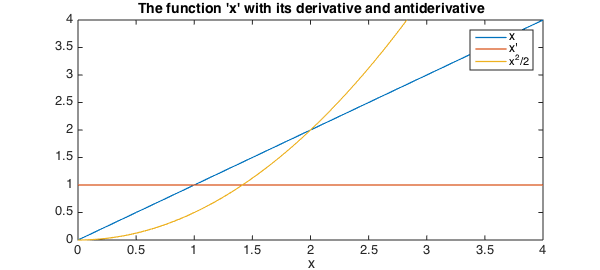
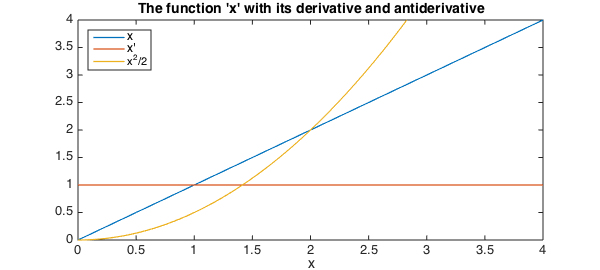
Updated FracCalc

Changed region(s): [[0.12, 0.0889, 0.27, 0.2667], [0.78, 0.0889, 0.9, 0.2667]]

diff --git a/examples/temp/FracCalc.html b/examples/temp/FracCalc.html
@@ -1,0 +1,175 @@
+<!DOCTYPE html>
+<html>
+  <head>
+    <title>Fractional calculus in Chebfun &raquo; Chebfun</title>
+    <meta name="viewport" content="width=device-width, initial-scale=1.0">
+    <meta charset="utf-8">
+    <link rel="shortcut icon" href="favicon.ico" />
+
+    <!-- Bootstrap -->
+    <link href="/css/bootstrap.min.css" rel="stylesheet"><!--  media="screen" -->
+    <link href="/css/normalize.min.css" rel="stylesheet"><!--  media="screen" -->
+    <link href="/css/chebsite.css" rel="stylesheet"><!--  media="screen" -->
+    <link href="/css/tomorrow.css" rel="stylesheet"><!--  media="screen" -->
+    <link href="/css/flexslider.css" rel="stylesheet"><!--  media="screen" -->
+
+    <link href='http://fonts.googleapis.com/css?family=Ubuntu+Mono:400,700,400italic' rel='stylesheet' type='text/css'>
+    <!-- HTML5 Shim and Respond.js IE8 support of HTML5 elements and media queries -->
+    <!-- WARNING: Respond.js doesn't work if you view the page via file:// -->
+    <!--[if lt IE 9]>
+      <script src="https://oss.maxcdn.com/libs/html5shiv/3.7.0/html5shiv.js"></script>
+      <script src="https://oss.maxcdn.com/libs/respond.js/1.3.0/respond.min.js"></script>
+    <![endif]-->
+<script>
+  (function(i,s,o,g,r,a,m){i['GoogleAnalyticsObject']=r;i[r]=i[r]||function(){
+  (i[r].q=i[r].q||[]).push(arguments)},i[r].l=1*new Date();a=s.createElement(o),
+  m=s.getElementsByTagName(o)[0];a.async=1;a.src=g;m.parentNode.insertBefore(a,m)
+  })(window,document,'script','//www.google-analytics.com/analytics.js','ga');
+  ga('create', 'UA-4297200-10', 'chebfun.org');
+  ga('require', 'displayfeatures');
+  ga('send', 'pageview');
+</script>  </head>
+  <body>
+    <!-- Fixed navbar -->
+    <div id='navbar' class="navbar navbar-default navbar-fixed-top">
+      <div class="container nav">
+        <div class="navbar-header">
+          <button type="button" class="navbar-toggle" data-toggle="collapse" data-target=".navbar-collapse"><span class="icon-bar"></span><span class="icon-bar"></span><span class="icon-bar"></span></button>
+          <a id="logo" href="/"><img src='/images/logo.png' /></a>
+        </div>
+        <div class="navbar-collapse collapse">
+          <ul class="nav navbar-nav navbar-right">
+            <li><a href="/about">About</a></li>
+            <li><a href="/news">News</a></li>
+            <li><a href="/download">Download</a></li>
+            <li><a href="/docs">Docs</a></li>
+            <li><a href="/examples">Examples</a></li>
+            <li><a href="/support">Support</a></li>
+            <li><a href="/search"><span class="glyphicon glyphicon-search"></span></a></li>
+            <li><a href="http://github.com/chebfun/chebfun"><img id='github-logo' src='/css/github-logo.png'/></a></li>
+          </ul>
+        </div><!--/.nav-collapse -->
+      </div>
+    </div>
+<div class="page-wrapper">
+
+    <div class='page-header'>
+<h1>Fractional calculus in Chebfun</h1>
+<h2>Nick Hale, October 2010<span><a href='/examples/temp/FracCalc.m'>download</a><span class='sep-sm'>&middot;</span><a href='//github.com/chebfun/examples/tree/development/temp/FracCalc.m'>view on GitHub</a></span></h2>
+</div>
+
+    <div class="container">
+<div class="row main">
+<div id='content' class="col-sm-12 example" role="main">
+<p>We're all familiar with the standard definitions of differentiation and integration we learnt in high-school and at undergraduate level. For example, here is the function $x$ on the interval [0,4] along with its derivative (the constant function, $1$) and antiderivative ($x^2$).</p>
+<pre class="mcode-input">x = chebfun('x', [0, 4]);
+LW = 'LineWidth'; lw = 1.2; FS = 'FontSize'; fs = 14;
+plot(x, '-', diff(x), '-', cumsum(x), '-', LW, lw)
+legend('x', 'x''', 'x^2/2','location','northwest')
+axis([0 4 0 4]), xlabel('x', FS, fs)
+title('The function ''x'' with its derivative and antiderivative', FS, fs)</pre>
+
+<p><img src="img/FracCalc_01.png" class="figure" alt=""></p>
+<h3 id="half-derivative">Half-derivative</h3>
+<p>A natural question one might ask is whether there exists, say, a 'half-derivative' operator ${\cal H}$, such that ${\cal H}^2(f) = df(x)/dx$.</p>
+<p>It turns out that through a generalisation of the Cauchy formula for repeated integration we can define precisely such an operator as a "Riemann-Liouville derivative" [1].</p>
+<p>We omit here any rigorous definition of these operators, but instead demonstrate their behaviour when applied to some simple functions $f$, as well as Chebfun's ability to compute them.</p>
+<p>Continuing where we left off above, we might ask what is the half-derivative of the function $f(x) = x$. In Chebfun this is easily computed via</p>
+<pre class="mcode-input">xp05 = diff(x, 0.5);
+hold on, plot(xp05, '-', LW, lw), axis([0, 4, 0, 4])
+legend('x', 'x''', 'x^2/2', 'd^{1/2}x / dx^{1/2}','location','northwest')
+xlabel('x',FS,fs); title('The function ''x'' and its half-derivative',FS,fs)</pre>
+
+<p><img src="img/FracCalc_02.png" class="figure" alt=""></p>
+<p>Notice here that the second argument passed to diff, which for standard calculus is a positive integer specifying the number of times to differentiate the chebfun, indicates that we wish to compute the half-derivative of x.</p>
+<p>The plot of this half-derivative may look familiar, and in fact one can show that the half derivative of $x$ is precisely $2\sqrt{x/\pi}$, which we can verify:</p>
+<pre class="mcode-input">f = chebfun(@(x) 2*sqrt(x/pi), [0, 4], 'exps', [0.5, 0]);
+norm(f - xp05, inf)</pre>
+
+<pre class="mcode-output">ans =
+     4.440892098500626e-16
+</pre>
+
+<h3 id="fractional-differentiation">Fractional differentiation</h3>
+<p>The Riemann-Liouville derivative definition above applies not only to half-powers, but to $d^a/dx^a$ for any $a &gt; 0$.</p>
+<p>Below we demonstrate the ($a$)th derivative of $x$ for $a$ = 1/10, 2/10, ..., 1.</p>
+<pre class="mcode-input">close
+u = x;
+for alpha = 0.1:.1:1
+    u = [ u, diff(u(:,1), alpha) ];
+    plot(u, LW, lw), drawnow
+end
+title('Fractional derivatives of x', FS, fs)
+xlabel('x', FS, fs); ylabel('d^a x / d x ^a', FS, fs)
+legend(num2str((0:.1:1)'),'location','northwest')</pre>
+
+<p><img src="img/FracCalc_03.png" class="figure" alt=""></p>
+<p>Of course, these generalised derivatives can be applied to more complicated functions than simply the independent variable '$x$'. Here we demonstrate the behaviour of varying irrational derivatives of the trigonometric function $\sin(x)$.</p>
+<pre class="mcode-input">close
+u = chebfun('sin(x)', [0, 20]);
+for alpha = sqrt(2)*(0:2:10)/17
+    u = [ u, diff(u(:,1), alpha) ];
+    plot(u, LW, lw), ylim(1.2*[-1, 1]), drawnow,
+end
+title('Fractional derivatives of sin(x)', FS, fs)
+xlabel('x', FS, fs); ylabel('d^a sin(x) / d x ^a', FS, fs)
+legend(num2str(sqrt(2)*(0:2:10)'/17))</pre>
+
+<p><img src="img/FracCalc_04.png" class="figure" alt=""></p>
+<p>Far away from the left-hand boundary these derivatives are essentially shifts of $x \rightarrow x + a\pi/2$ (which is consistent with the case of $a$ being an integer), but near $x = 0$ the boundary effects are more interesting.</p>
+<pre class="mcode-input">axis([-0.5, pi, 0.0, 1.01])</pre>
+
+<p><img src="img/FracCalc_05.png" class="figure" alt=""></p>
+<h3 id="fractional-integration">Fractional integration</h3>
+<p>The definition of the Riemann-Liouville derivative can also to extended fractional integration (in fact it is sometimes referred to as the Riemann-Liouville 'differintegral' [2]). Chebfun can also handle these types of operators, here extending the definition of <code>cumsum</code> to allow non-integer degree.</p>
+<pre class="mcode-input">close
+x = chebfun('x', [0, 1]); u = [];
+for k = 1:10;
+    u = [ u, cumsum(x.^k, 0.5) ];
+    plot(u, LW, lw), drawnow, hold on
+end
+title('Half-integrals of x^k for k = 1, ..., 10', FS, fs)
+xlabel('x', FS, fs);
+legend(num2str((1:10)'),'location','northwest')</pre>
+
+<p><img src="img/FracCalc_06.png" class="figure" alt=""></p>
+<p>Here's another example:</p>
+<pre class="mcode-input">close
+u = chebfun('exp(x)-1', [0, 1]);
+for alpha = 0.1:.1:1
+    u = [ u, cumsum(u(:,1), alpha) ];
+    plot(u, LW, lw), drawnow
+end
+title('Fractional integrals of exp(x)-1', FS, fs)
+xlabel('x', FS, fs);
+legend(num2str((0:.1:1)'),'location','northwest')</pre>
+
+<p><img src="img/FracCalc_07.png" class="figure" alt=""></p>
+<h3 id="fractional-differential-equations">Fractional differential equations</h3>
+<p>Unfortunately there is not yet any functionality for fractional calculus operators in the Chebop system.</p>
+<h3 id="references">References</h3>
+<ol>
+<li>
+<p>Lizorkin, P.I. (2001), "Fractional integration and differentiation",    <a href="http://eom.springer.de/f/f041230.htm">http://eom.springer.de/f/f041230.htm</a></p>
+</li>
+<li>
+<p><a href="http://en.wikipedia.org/wiki/Riemann-Liouville_differintegral">http://en.wikipedia.org/wiki/Riemann-Liouville_differintegral</a></p>
+</li>
+</ol></div>
+        </div>
+    </div>
+</div>
+    <div class="footer">
+        <p>&copy; Copyright 2014 the University of Oxford and the Chebfun Developers.</p>
+    </div>
+
+    <!-- jQuery (necessary for Bootstrap's JavaScript plugins) -->
+    <script type="text/javascript" src="http://code.jquery.com/jquery-1.7.2.min.js"></script>
+    <!-- Include all compiled plugins (below), or include individual files as needed -->
+    <script type="text/javascript" src="http://cdn.mathjax.org/mathjax/latest/MathJax.js?config=TeX-AMS-MML_HTMLorMML"></script>
+    <script src="/js/bootstrap.min.js"></script>
+    <script src="https://google-code-prettify.googlecode.com/svn/loader/prettify.js?lang=matlab" type="text/javascript"></script>
+    <script type="text/javascript" src="/js/config.js"></script>
+    <script type="text/javascript" src="/js/jquery.flexslider-min.js"></script>
+  </body>
+</html>

diff --git a/examples/temp/img/FracCalc.html b/examples/temp/img/FracCalc.html
@@ -1,0 +1,116 @@
+---
+title: "Fractional calculus in Chebfun"
+layout: example
+authordate: "Nick Hale, October 2010"
+meta: "(Chebfun example integro/FracCalc.m) [Tags: #calculus, #fractionalderivative]"
+---
+
+We're all familiar with the standard definitions of differentiation and integration we learnt in high-school and at undergraduate level. For example, here is the function $x$ on the interval [0,4] along with its derivative (the constant function, $1$) and antiderivative ($x^2$).
+
+<pre class="mcode-input">x = chebfun('x', [0, 4]);
+LW = 'LineWidth'; lw = 1.2; FS = 'FontSize'; fs = 14;
+plot(x, '-', diff(x), '-', cumsum(x), '-', LW, lw)
+legend('x', 'x''', 'x^2/2','location','northwest')
+axis([0 4 0 4]), xlabel('x', FS, fs)
+title('The function ''x'' with its derivative and antiderivative', FS, fs)</pre><img src="img/FracCalc_01.png" class="figure" alt="">
+
+
+
+## Half-derivative
+
+A natural question one might ask is whether there exists, say, a 'half-derivative' operator ${\cal H}$, such that ${\cal H}^2(f) = df(x)/dx$.
+
+It turns out that through a generalisation of the Cauchy formula for repeated integration we can define precisely such an operator as a "Riemann-Liouville derivative" [1].
+
+We omit here any rigorous definition of these operators, but instead demonstrate their behaviour when applied to some simple functions $f$, as well as Chebfun's ability to compute them.
+
+Continuing where we left off above, we might ask what is the half-derivative of the function $f(x) = x$. In Chebfun this is easily computed via
+
+<pre class="mcode-input">xp05 = diff(x, 0.5);
+hold on, plot(xp05, '-', LW, lw), axis([0, 4, 0, 4])
+legend('x', 'x''', 'x^2/2', 'd^{1/2}x / dx^{1/2}','location','northwest')
+xlabel('x',FS,fs); title('The function ''x'' and its half-derivative',FS,fs)</pre><img src="img/FracCalc_02.png" class="figure" alt="">
+
+Notice here that the second argument passed to diff, which for standard calculus is a positive integer specifying the number of times to differentiate the chebfun, indicates that we wish to compute the half-derivative of x.
+
+The plot of this half-derivative may look familiar, and in fact one can show that the half derivative of $x$ is precisely $2\sqrt{x/\pi}$, which we can verify:
+
+<pre class="mcode-input">f = chebfun(@(x) 2*sqrt(x/pi), [0, 4], 'exps', [0.5, 0]);
+norm(f - xp05, inf)</pre><pre class="mcode-output">ans =
+     4.440892098500626e-16
+</pre>
+
+## Fractional differentiation
+
+The Riemann-Liouville derivative definition above applies not only to half-powers, but to $d^a/dx^a$ for any $a &gt; 0$.
+
+Below we demonstrate the ($a$)th derivative of $x$ for $a$ = 1/10, 2/10, ..., 1.
+
+<pre class="mcode-input">close
+u = x;
+for alpha = 0.1:.1:1
+    u = [ u, diff(u(:,1), alpha) ];
+    plot(u, LW, lw), drawnow
+end
+title('Fractional derivatives of x', FS, fs)
+xlabel('x', FS, fs); ylabel('d^a x / d x ^a', FS, fs)
+legend(num2str((0:.1:1)'),'location','northwest')</pre><img src="img/FracCalc_03.png" class="figure" alt="">
+
+Of course, these generalised derivatives can be applied to more complicated functions than simply the independent variable '$x$'. Here we demonstrate the behaviour of varying irrational derivatives of the trigonometric function $\sin(x)$.
+
+<pre class="mcode-input">close
+u = chebfun('sin(x)', [0, 20]);
+for alpha = sqrt(2)*(0:2:10)/17
+    u = [ u, diff(u(:,1), alpha) ];
+    plot(u, LW, lw), ylim(1.2*[-1, 1]), drawnow,
+end
+title('Fractional derivatives of sin(x)', FS, fs)
+xlabel('x', FS, fs); ylabel('d^a sin(x) / d x ^a', FS, fs)
+legend(num2str(sqrt(2)*(0:2:10)'/17))</pre><img src="img/FracCalc_04.png" class="figure" alt="">
+
+Far away from the left-hand boundary these derivatives are essentially shifts of $x \rightarrow x + a\pi/2$ (which is consistent with the case of $a$ being an integer), but near $x = 0$ the boundary effects are more interesting.
+
+<pre class="mcode-input">axis([-0.5, pi, 0.0, 1.01])</pre><img src="img/FracCalc_05.png" class="figure" alt="">
+
+
+
+## Fractional integration
+
+The definition of the Riemann-Liouville derivative can also to extended fractional integration (in fact it is sometimes referred to as the Riemann-Liouville 'differintegral' [2]). Chebfun can also handle these types of operators, here extending the definition of `cumsum` to allow non-integer degree.
+
+<pre class="mcode-input">close
+x = chebfun('x', [0, 1]); u = [];
+for k = 1:10;
+    u = [ u, cumsum(x.^k, 0.5) ];
+    plot(u, LW, lw), drawnow, hold on
+end
+title('Half-integrals of x^k for k = 1, ..., 10', FS, fs)
+xlabel('x', FS, fs);
+legend(num2str((1:10)'),'location','northwest')</pre><img src="img/FracCalc_06.png" class="figure" alt="">
+
+Here's another example:
+
+<pre class="mcode-input">close
+u = chebfun('exp(x)-1', [0, 1]);
+for alpha = 0.1:.1:1
+    u = [ u, cumsum(u(:,1), alpha) ];
+    plot(u, LW, lw), drawnow
+end
+title('Fractional integrals of exp(x)-1', FS, fs)
+xlabel('x', FS, fs);
+legend(num2str((0:.1:1)'),'location','northwest')</pre><img src="img/FracCalc_07.png" class="figure" alt="">
+
+
+
+## Fractional differential equations
+
+Unfortunately there is not yet any functionality for fractional calculus operators in the Chebop system.
+
+
+
+## References
+
+1. Lizorkin, P.I. (2001), "Fractional integration and differentiation",    <http://eom.springer.de/f/f041230.htm>
+
+2. <http://en.wikipedia.org/wiki/Riemann-Liouville_differintegral>
+

diff --git a/examples/temp/index.html b/examples/temp/index.html
@@ -138,6 +138,15 @@
             </p>
         </a>
     </li>
+    <li>
+        <a href='/examples/temp/FracCalc.html'>
+            <div class='thumbwrapper'><img src='/examples/temp/img/FracCalc_01.png' /></div>
+            <h3>Fractional calculus in Chebfun</h3>
+            <p>Nick Hale, October 2010
+                <span class='tags'><span href='#' class='tag'>#calculus</span>, <span href='#' class='tag'>#fractionalderivative</span></span>
+            </p>
+        </a>
+    </li>
     </ol>
 </div>
         </div>

diff --git a/index.html b/index.html
@@ -207,5 +207,5 @@ plot(minx(1),minx(2),'.w')
     <script type="text/javascript" src="/js/config.js"></script>
     <script type="text/javascript" src="/js/jquery.flexslider-min.js"></script>
   </body>
-<!-- Compiled on Friday, 06 March 2015 at 14:27. -->
+<!-- Compiled on Monday, 09 March 2015 at 23:19. -->
 </html>

diff --git a/examples/temp/FracCalc.m b/examples/temp/FracCalc.m
@@ -14,7 +14,8 @@
 x = chebfun('x', [0, 4]);
 LW = 'LineWidth'; lw = 1.2; FS = 'FontSize'; fs = 14;
 plot(x, '-', diff(x), '-', cumsum(x), '-', LW, lw)
-legend('x', 'x''', 'x^2/2'), axis([0 4 0 4]), xlabel('x', FS, fs)
+legend('x', 'x''', 'x^2/2','location','northwest')
+axis([0 4 0 4]), xlabel('x', FS, fs)
 title('The function ''x'' with its derivative and antiderivative', FS, fs)
 
 %% Half-derivative
@@ -35,8 +36,8 @@ title('The function ''x'' with its derivative and antiderivative', FS, fs)
 
 xp05 = diff(x, 0.5);
 hold on, plot(xp05, '-', LW, lw), axis([0, 4, 0, 4])
-legend('x', 'x''', 'x^2/2', 'd^{1/2}x / dx^{1/2}'); xlabel('x', FS, fs);
-title('The function ''x'' and its half-derivative', FS, fs)
+legend('x', 'x''', 'x^2/2', 'd^{1/2}x / dx^{1/2}','location','northwest')
+xlabel('x',FS,fs); title('The function ''x'' and its half-derivative',FS,fs)
 
 %%
 % Notice here that the second argument passed to diff, which for standard
@@ -48,7 +49,7 @@ title('The function ''x'' and its half-derivative', FS, fs)
 % that the half derivative of $x$ is precisely $2\sqrt{x/\pi}$, which we can
 % verify:
 f = chebfun(@(x) 2*sqrt(x/pi), [0, 4], 'exps', [0.5, 0]);
-norm( f - xp05 , inf)
+norm(f - xp05, inf)
 
 %% Fractional differentiation
 % The Riemann-Liouville derivative definition above applies not only to
@@ -64,7 +65,7 @@ for alpha = 0.1:.1:1
 end
 title('Fractional derivatives of x', FS, fs)
 xlabel('x', FS, fs); ylabel('d^a x / d x ^a', FS, fs)
-legend(num2str((0:.1:1)'))
+legend(num2str((0:.1:1)'),'location','northwest')
 
 %%
 % Of course, these generalised derivatives can be applied to more complicated
@@ -92,7 +93,7 @@ axis([-0.5, pi, 0.0, 1.01])
 %% Fractional integration
 % The definition of the Riemann-Liouville derivative can also to extended
 % fractional integration (in fact it is sometimes referred to as the
-% Riemann-Liouville `differintegral' [2]). Chebfun can also handle these types
+% Riemann-Liouville 'differintegral' [2]). Chebfun can also handle these types
 % of operators, here extending the definition of `cumsum` to allow non-integer
 % degree.
 
@@ -104,7 +105,7 @@ for k = 1:10;
 end
 title('Half-integrals of x^k for k = 1, ..., 10', FS, fs)
 xlabel('x', FS, fs);
-legend(num2str((1:10)'))
+legend(num2str((1:10)'),'location','northwest')
 
 %%
 % Here's another example:
@@ -117,7 +118,7 @@ for alpha = 0.1:.1:1
 end
 title('Fractional integrals of exp(x)-1', FS, fs)
 xlabel('x', FS, fs);
-legend(num2str((0:.1:1)'))
+legend(num2str((0:.1:1)'),'location','northwest')
 
 %% Fractional differential equations
 % Unfortunately there is not yet any functionality for fractional calculus
